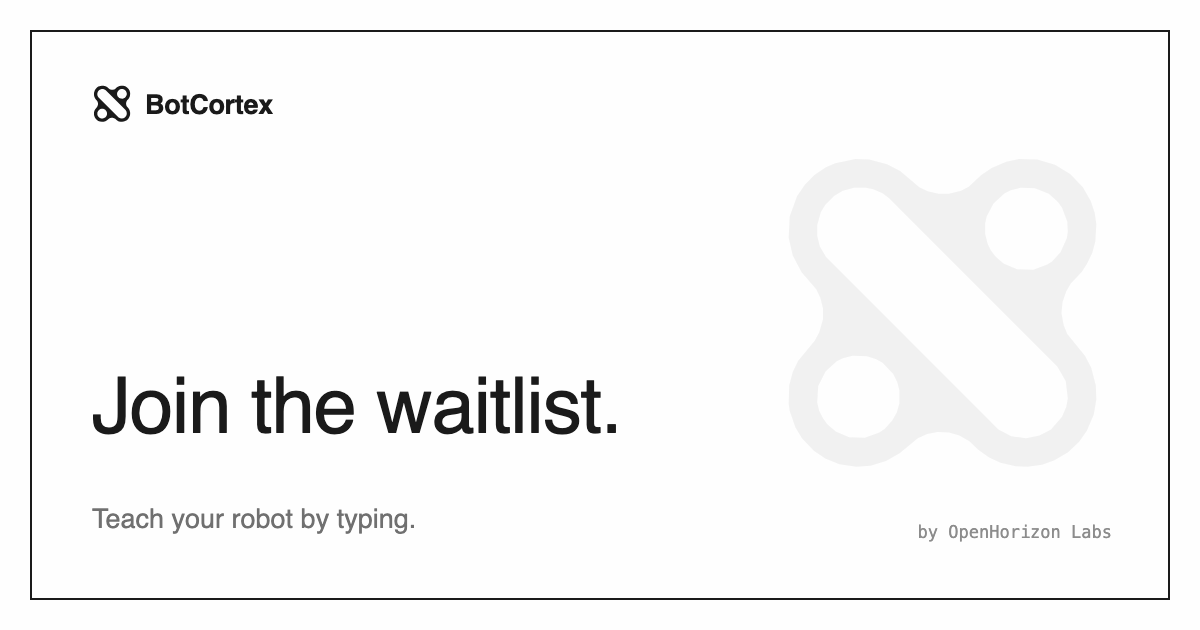
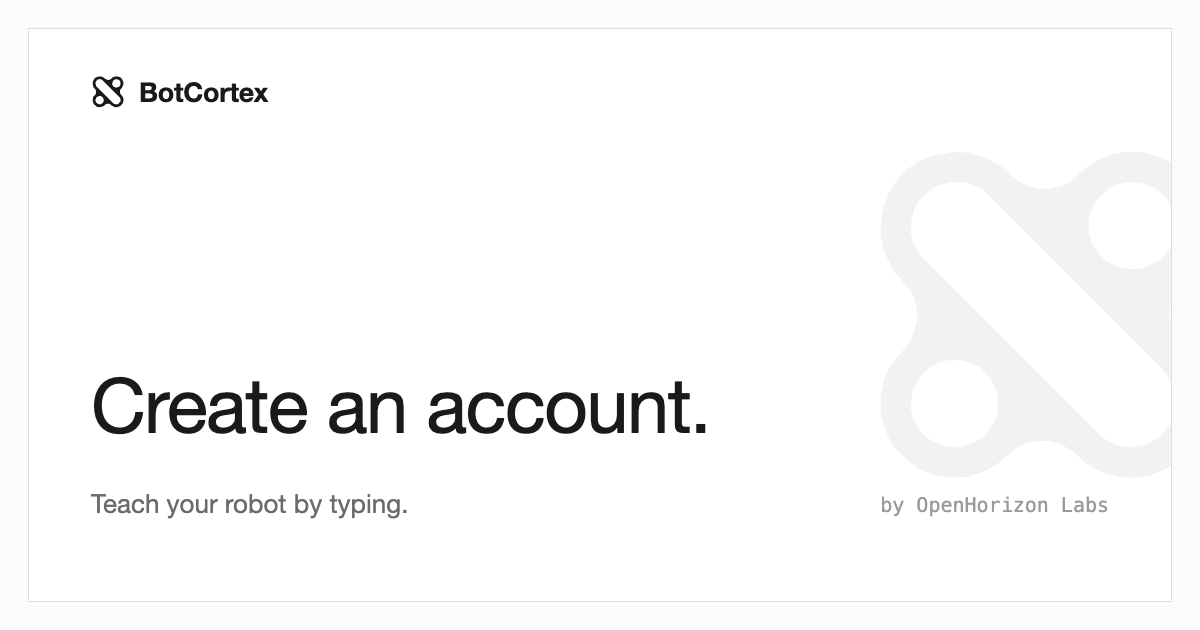
Anyone can make an account; the waitlist is gone
/signup was a Tally form behind a "Join the waitlist" button and /signin told
people access was invite-based. Both are now what they say: /signup creates a
real account through Better Auth (which the api has had enabled and tested all
along, so no server change), signs you in with the same response, and drops you
in the control room. The nav carries the pair the design system pairs — outline
Sign in, black Sign up — and the hero, the final CTA, pricing and the footer
follow.

The password length rule is stated in the form rather than by the server after
a round-trip, because a rule you are told is a rule and a rule you are told
afterwards is a rejection.

scripts/shoot-og.ts is new, and is the actual lesson here: the OG card behind
/signup still read "Join the waitlist." because it was made once in a
scratchpad. Page copy lives in the repo and gets reviewed; the image did not.
Now it is one command.

Claude-Session: https://claude.ai/code/session_01JCJvYRztj7iicne3knk4Qf

diff --git a/app/signup/signup-form.tsx b/app/signup/signup-form.tsx
@@ -1,0 +1,108 @@
+"use client";
+
+import { useState } from "react";
+import { useRouter, useSearchParams } from "next/navigation";
+import { Loader2 } from "lucide-react";
+
+import { authClient } from "@/lib/auth-client";
+import { signInDestination } from "@/lib/auth-redirect";
+import { Button } from "@/components/ui/button";
+import { Input } from "@/components/ui/input";
+
+/** Better Auth's own minimum. Saying it up front beats a server round-trip
+ *  that comes back to tell you the same thing. */
+const MIN_PASSWORD = 8;
+
+export function SignUpForm() {
+  const router = useRouter();
+  const params = useSearchParams();
+  // Only ever an in-app path — an absolute URL here would make this an open
+  // redirect, and the value arrives from the query string.
+  const destination = signInDestination(params.get("next"));
+  const [name, setName] = useState("");
+  const [email, setEmail] = useState("");
+  const [password, setPassword] = useState("");
+  const [error, setError] = useState<string | null>(null);
+  const [busy, setBusy] = useState(false);
+
+  const short = password.length > 0 && password.length < MIN_PASSWORD;
+  const ready = name.trim() && email.trim() && password.length >= MIN_PASSWORD;
+
+  async function submit() {
+    setBusy(true);
+    setError(null);
+    try {
+      // Sign-up returns a session cookie, so there is no second sign-in step.
+      const result = await authClient.signUp.email({
+        email: email.trim(),
+        password,
+        name: name.trim(),
+      });
+      if (result.error) {
+        setError(result.error.message ?? "Could not create the account.");
+        return;
+      }
+      router.push(destination);
+    } catch {
+      setError("Could not reach BotCortex. Check your connection and try again.");
+    } finally {
+      setBusy(false);
+    }
+  }
+
+  return (
+    <form
+      className="mt-8 flex flex-col gap-3"
+      onSubmit={(e) => {
+        e.preventDefault();
+        if (!busy && ready) submit();
+      }}
+    >
+      <Input
+        value={name}
+        onChange={(e) => setName(e.target.value)}
+        placeholder="Your name"
+        aria-label="Name"
+        autoComplete="name"
+        className="h-11"
+        autoFocus
+      />
+      <Input
+        value={email}
+        onChange={(e) => setEmail(e.target.value)}
+        placeholder="you@lab.dev"
+        type="email"
+        aria-label="Email"
+        autoComplete="email"
+        className="h-11"
+      />
+      <Input
+        value={password}
+        onChange={(e) => setPassword(e.target.value)}
+        placeholder={`Password — at least ${MIN_PASSWORD} characters`}
+        type="password"
+        aria-label="Password"
+        autoComplete="new-password"
+        className="h-11"
+      />
+      {/* The length rule is the one people hit, and hearing it from the server
+          after a round-trip reads as a rejection rather than a rule. */}
+      {short && !error && (
+        <p className="text-xs text-muted-foreground">
+          {MIN_PASSWORD - password.length} more character
+          {MIN_PASSWORD - password.length === 1 ? "" : "s"} to go.
+        </p>
+      )}
+      {error && <p className="break-words text-xs text-destructive">{error}</p>}
+      <Button type="submit" disabled={busy || !ready} className="h-11 gap-1.5 rounded-lg">
+        {busy && <Loader2 className="size-4 animate-spin" />}
+        Create account
+      </Button>
+      <p className="mt-1 text-xs leading-relaxed text-muted-foreground">
+        You get a simulated robot in the browser straight away — no hardware
+        needed to try it. Teaching uses BotCortex credit; tell us what you are
+        building and we will top you up.
+      </p>
+    </form>
+  );
+}

diff --git a/scripts/shoot-og.ts b/scripts/shoot-og.ts
@@ -1,0 +1,55 @@
+/**
+ * Render an Open Graph card to public/og/.
+ *
+ * These were hand-made in a scratchpad, which is how og-signup.png went on
+ * saying "Join the waitlist." months after the waitlist was gone: the page
+ * copy is in the repo and reviewable, the card behind the link was not.
+ *
+ *   bun scripts/shoot-og.ts signup "Create an account." "Teach your robot by typing."
+ *
+ * The layout mirrors the site's own: hairline card on off-white, the mark and
+ * wordmark top-left, headline bottom-left at display weight, a faint mark
+ * watermark on the right, and the company line bottom-right.
+ */
+import { chromium } from "playwright-core";
+import { MARK } from "../components/site/logo";
+
+const [slug, headline, subtitle] = process.argv.slice(2);
+if (!slug || !headline) {
+  console.error('usage: bun scripts/shoot-og.ts <slug> "<headline>" ["<subtitle>"]');
+  process.exit(1);
+}
+
+const escape = (value: string) =>
+  value.replace(/&/g, "&amp;").replace(/</g, "&lt;").replace(/>/g, "&gt;");
+
+const html = `<!doctype html><meta charset="utf-8"><style>
+  * { margin: 0; box-sizing: border-box; }
+  body { width: 1200px; height: 630px; background: #fbfbfa;
+         font: 400 16px/1.2 -apple-system, "Helvetica Neue", Arial, sans-serif; color: #1a1a1a; }
+  .card { position: absolute; inset: 28px; border: 1px solid #dedede; background: #fff; overflow: hidden; }
+  .brand { position: absolute; top: 46px; left: 62px; display: flex; align-items: center; gap: 14px; }
+  .brand svg { width: 34px; height: 34px; }
+  .brand span { font-size: 27px; font-weight: 600; letter-spacing: -0.01em; }
+  h1 { position: absolute; left: 62px; bottom: 156px; font-size: 76px; font-weight: 400;
+       line-height: 1.04; letter-spacing: -0.02em; max-width: 680px; }
+  .sub { position: absolute; left: 62px; bottom: 82px; font-size: 26px; color: #6b6b6b; }
+  .by { position: absolute; right: 62px; bottom: 84px; font-size: 20px; color: #9a9a9a;
+        font-family: ui-monospace, Menlo, monospace; }
+  .mark { position: absolute; right: -52px; top: 108px; width: 360px; height: 360px; color: #f2f2f2; }
+</style>
+<div class="card">
+  <div class="brand"><svg viewBox="0 0 200 200"><path d="${MARK}" fill="currentColor" fill-rule="evenodd"/></svg><span>BotCortex</span></div>
+  <svg class="mark" viewBox="0 0 200 200"><path d="${MARK}" fill="currentColor" fill-rule="evenodd"/></svg>
+  <h1>${escape(headline)}</h1>
+  ${subtitle ? `<p class="sub">${escape(subtitle)}</p>` : ""}
+  <div class="by">by OpenHorizon Labs</div>
+</div>`;
+
+const browser = await chromium.launch({ channel: "chrome", headless: true });
+const page = await browser.newPage({ viewport: { width: 1200, height: 630 } });
+await page.setContent(html, { waitUntil: "load" });
+const out = `public/og/og-${slug}.png`;
+await page.screenshot({ path: out });
+await browser.close();
+console.log(`wrote ${out}`);

diff --git a/app/signup/page.tsx b/app/signup/page.tsx
@@ -1,21 +1,24 @@
+import { Suspense } from "react";
+import Link from "next/link";
 import type { Metadata } from "next";
 import { Nav } from "@/components/site/nav";
+import { SignUpForm } from "./signup-form";
 
 export const metadata: Metadata = {
-  title: "Join the waitlist",
+  title: "Create an account",
   description:
-    "Teach your robot by typing. We're onboarding a small group first — join the BotCortex waitlist.",
+    "Teach your robot by typing. Create a BotCortex account and start with a simulated arm in your browser.",
   alternates: { canonical: "/signup" },
   openGraph: {
-    title: "Join the BotCortex waitlist",
-    description: "Teach your robot by typing — we're onboarding a small group first.",
+    title: "Create a BotCortex account",
+    description: "Teach your robot by typing — start with a simulated arm in your browser.",
     url: "/signup",
-    images: [{ url: "/og/og-signup.png", width: 1200, height: 630, alt: "Join the BotCortex waitlist" }],
+    images: [{ url: "/og/og-signup.png", width: 1200, height: 630, alt: "Create a BotCortex account" }],
   },
   twitter: {
     card: "summary_large_image",
-    title: "Join the BotCortex waitlist",
-    description: "Teach your robot by typing — we're onboarding a small group first.",
+    title: "Create a BotCortex account",
+    description: "Teach your robot by typing — start with a simulated arm in your browser.",
     images: ["/og/og-signup.png"],
   },
 };
@@ -24,14 +27,22 @@ export default function Page() {
   return (
     <main className="flex min-h-screen flex-col">
       <Nav />
-      {/* the Tally form full-page under our navbar; it scrolls itself */}
-      <iframe
-        src="https://tally.so/embed/81V755?transparentBackground=1"
-        className="w-full flex-1"
-        style={{ minHeight: "calc(100dvh - 4rem)" }}
-        frameBorder={0}
-        title="Join the BotCortex waitlist"
-      />
+      <div className="flex flex-1 items-center justify-center px-6 py-16">
+        <div className="w-full max-w-sm">
+          <h1 className="text-[28px] font-normal tracking-[-0.01em]">Create an account</h1>
+          <p className="mt-2 text-sm text-muted-foreground">
+            Already have one?{" "}
+            <Link href="/signin" className="underline underline-offset-2 hover:text-foreground">
+              Sign in
+            </Link>
+            .
+          </p>
+          {/* useSearchParams (the post-sign-up destination) needs a boundary. */}
+          <Suspense>
+            <SignUpForm />
+          </Suspense>
+        </div>
+      </div>
     </main>
   );
 }

diff --git a/components/site/final-cta.tsx b/components/site/final-cta.tsx
@@ -19,15 +19,15 @@ export function FinalCta() {
           Teach your robot its first task tonight.
         </h2>
         <p className="mx-auto mt-4 max-w-xl text-base leading-relaxed text-muted-foreground">
-          Join the waitlist and we&rsquo;ll onboard you as spots open — bring the job
-          you&rsquo;ve been putting off.
+          Create an account and a simulated arm boots in your browser — no
+          hardware needed. Bring the job you&rsquo;ve been putting off.
         </p>
         <div className="mt-8 flex flex-wrap items-center justify-center gap-2.5">
           <Button
             asChild
             className="h-11 rounded-lg bg-foreground px-5 text-sm font-medium text-background hover:bg-foreground/90"
           >
-            <a href="/signup">Join the waitlist</a>
+            <a href="/signup">Start teaching a robot</a>
           </Button>
           <Button asChild variant="outline" className="h-11 rounded-lg border-border px-5 text-sm">
             <a href="/demo">Book a demo</a>

diff --git a/components/site/nav.tsx b/components/site/nav.tsx
@@ -49,9 +49,17 @@ export function Nav() {
           <Button
             asChild
             size="sm"
+            variant="outline"
+            className="hidden h-9 rounded-lg px-3.5 text-sm sm:inline-flex"
+          >
+            <Link href="/signin">Sign in</Link>
+          </Button>
+          <Button
+            asChild
+            size="sm"
             className="h-9 rounded-lg bg-foreground px-3.5 text-sm text-background hover:bg-foreground/90"
           >
-            <Link href="/signup">Join the waitlist</Link>
+            <Link href="/signup">Sign up</Link>
           </Button>
         </div>
       </nav>

diff --git a/app/signin/page.tsx b/app/signin/page.tsx
@@ -18,10 +18,9 @@ export default function Page() {
         <div className="w-full max-w-sm">
           <h1 className="text-[28px] font-normal tracking-[-0.01em]">Sign in</h1>
           <p className="mt-2 text-sm text-muted-foreground">
-            Waitlist access is invite-based — use the credentials we emailed
-            you. Not invited yet?{" "}
+            No account yet?{" "}
             <a href="/signup" className="underline underline-offset-2 hover:text-foreground">
-              Join the waitlist
+              Create one
             </a>
             .
           </p>

diff --git a/components/site/pricing.tsx b/components/site/pricing.tsx
@@ -13,7 +13,7 @@ const TIERS = [
       "Skills and episodic memory stored on your runtime",
       "Bring your own model key, or teach with metered BotCortex credit — taught skills run free",
     ],
-    cta: "Join the waitlist",
+    cta: "Create an account",
     href: "/signup",
     featured: true,
   },
@@ -26,7 +26,7 @@ const TIERS = [
       "Fleet dashboard, remote access, and shared fleet learning",
       "Private skill repos for your team",
     ],
-    cta: "Join the waitlist",
+    cta: "Create an account",
     href: "/signup",
     featured: false,
   },

diff --git a/components/site/hero.tsx b/components/site/hero.tsx
@@ -23,7 +23,7 @@ export function Hero() {
               asChild
               className="h-11 rounded-lg bg-foreground px-5 text-sm font-medium text-background hover:bg-foreground/90"
             >
-              <Link href="/signup">Join the waitlist</Link>
+              <Link href="/signup">Start teaching a robot</Link>
             </Button>
             <Button asChild variant="outline" className="h-11 rounded-lg border-border px-5 text-sm">
               <Link href="/demo">Book a demo</Link>

diff --git a/components/site/footer.tsx b/components/site/footer.tsx
@@ -10,7 +10,8 @@ const COLUMNS = [
       { label: "Skill registry", href: "/skills" },
       { label: "Pricing", href: "/#pricing" },
       { label: "Book a demo", href: "/demo" },
-      { label: "Join the waitlist", href: "/signup" },
+      { label: "Sign up", href: "/signup" },
+      { label: "Sign in", href: "/signin" },
     ],
   },
   {
